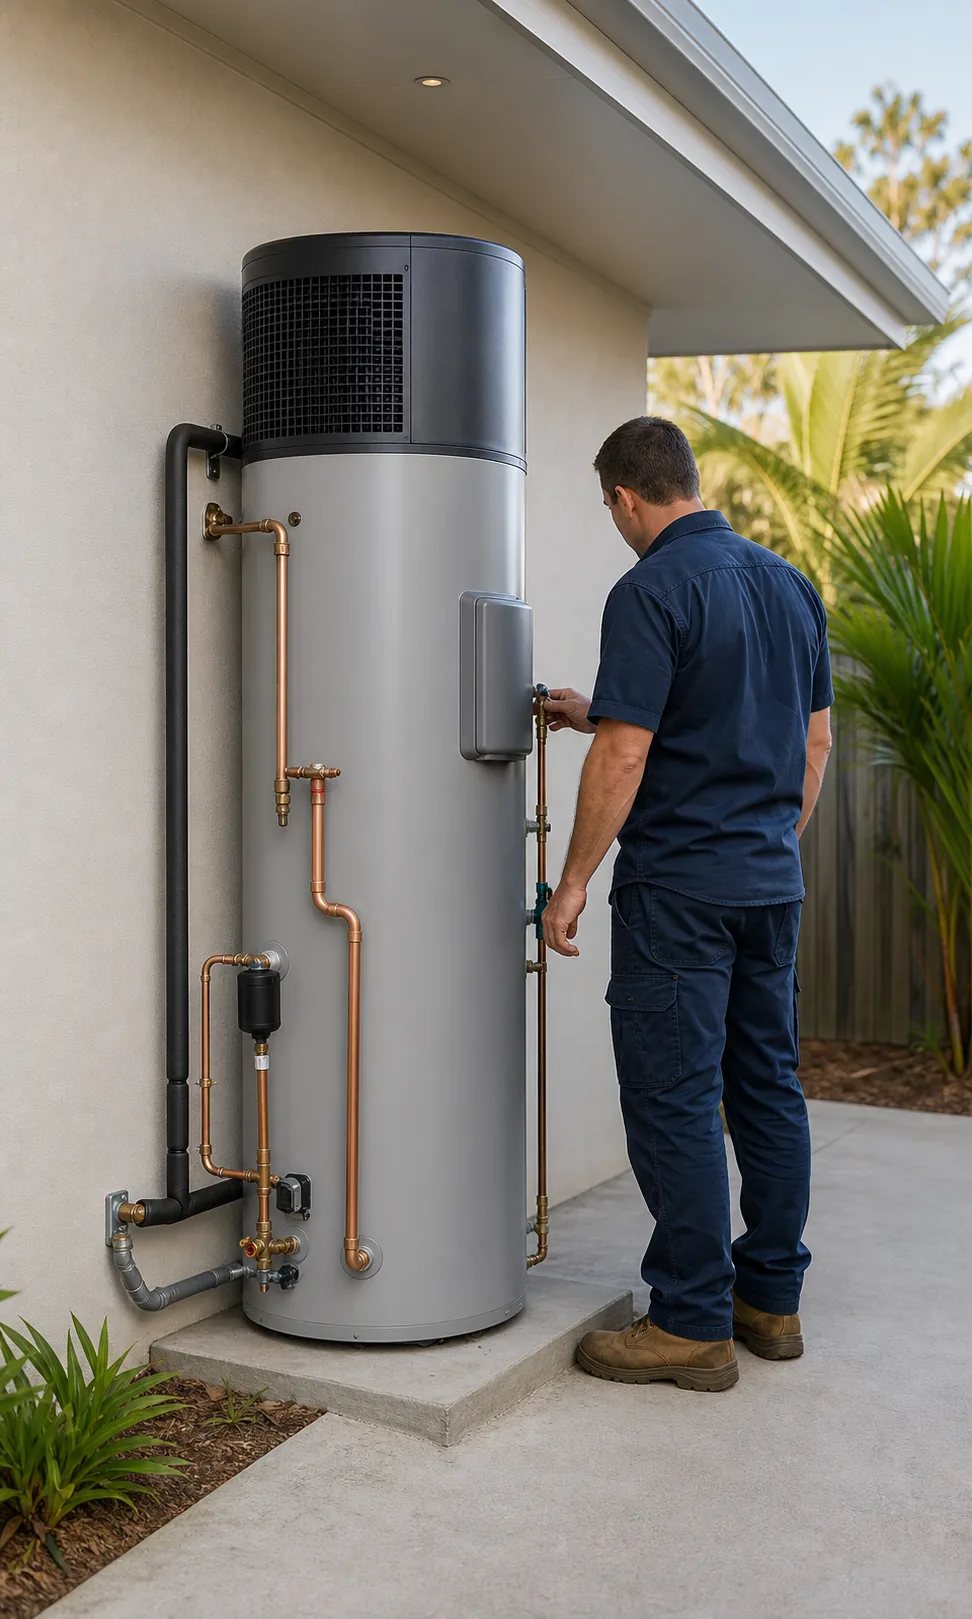
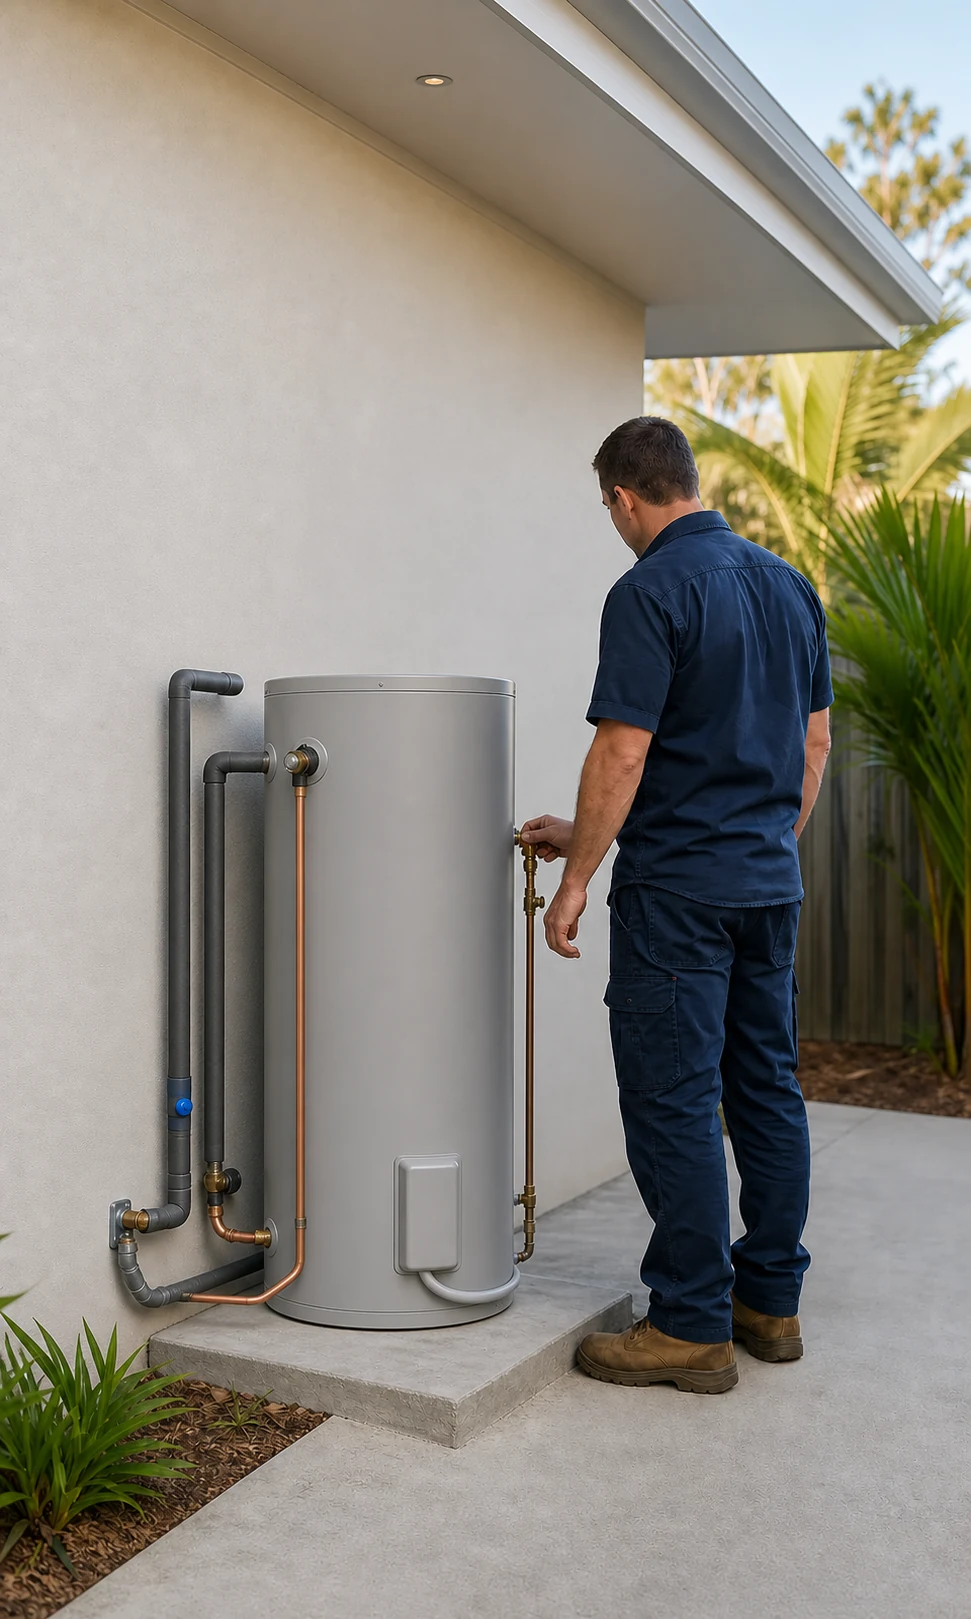
Improve plumbing demo visual flow

diff --git a/plumbing-demo.html b/plumbing-demo.html
@@ -1067,6 +1067,61 @@
         </div>
       </section>
 
+      <section class="diagnosis" aria-labelledby="diagnosis-title">
+        <div class="section-inner">
+          <div class="diagnosis__heading" data-reveal>
+            <div><p class="eyebrow">The fix line</p><h2 class="display" id="diagnosis-title">Follow the line, not just the symptom.</h2></div>
+            <p>A drain is only half fixed when the water starts moving. The better outcome is knowing what caused the blockage and what happens next.</p>
+          </div>
+          <div class="diagnosis__layout">
+            <figure class="diagnosis__figure" data-reveal data-delay="1">
+              <img src="img/headland-plumbing/drain-diagnosis.webp" width="1536" height="1024" alt="Illustrative concept image of a plumber using a drain inspection camera at an outdoor access point." loading="lazy" decoding="async">
+              <span class="diagnosis__note diagnosis__note--one">01 · Inspect</span>
+              <span class="diagnosis__note diagnosis__note--two">02 · Locate</span>
+              <span class="diagnosis__note diagnosis__note--three">03 · Confirm</span>
+              <figcaption class="image-disclosure">Concept image · fictional demo</figcaption>
+            </figure>
+            <ol class="diagnosis__steps" aria-label="Drain diagnosis approach" data-reveal data-delay="2">
+              <li><span>01</span><div><h3>See what is happening</h3><p>Start with the symptoms and inspect the accessible line.</p></div></li>
+              <li><span>02</span><div><h3>Find the cause</h3><p>Use the right diagnostic method instead of guessing.</p></div></li>
+              <li><span>03</span><div><h3>Confirm the result</h3><p>Test the flow and explain any next step before packing up.</p></div></li>
+            </ol>
+          </div>
+        </div>
+      </section>
+
+      <section class="planned" aria-labelledby="planned-title">
+        <svg class="plumbing-motif planned__fixture-motif" viewBox="0 0 420 260" aria-hidden="true" focusable="false">
+          <path d="M76 232h126m-82 0v-76c0-64 49-114 113-114s113 50 113 114v18h56v38H300"/>
+          <path d="M233 42V12m-45 0h90"/>
+          <path class="motif-fine" d="M109 215h22m-22 10h22M332 157h28m-28 12h28"/>
+          <path class="motif-accent" d="M326 252c0-11 13-22 13-34 0 12 13 23 13 34a13 13 0 1 1-26 0Zm45-17c0-8 9-16 9-25 0 9 9 17 9 25a9 9 0 1 1-18 0Z"/>
+        </svg>
+        <div class="section-inner">
+          <div class="planned__heading" data-reveal>
+            <p class="eyebrow">Planned plumbing</p>
+            <h2 class="display" id="planned-title">A repair today. A better setup tomorrow.</h2>
+            <p>Some jobs need a quick answer. Others deserve a considered plan, clean coordination and a finish that belongs in the room.</p>
+          </div>
+          <div class="planned__grid">
+            <figure class="planned-card planned-card--wide" data-reveal data-delay="1">
+              <div class="planned-card__image">
+                <img src="img/headland-plumbing/bathroom-fitoff.webp" width="1448" height="1086" alt="Illustrative concept image of a finished Australian bathroom with new vanity, shower and toilet plumbing fixtures." loading="lazy" decoding="async">
+                <span class="image-disclosure">Concept image · fictional demo</span>
+              </div>
+              <figcaption><strong>Bathroom fit-offs</strong><span>Rough-in · fixtures · testing</span><p>Keep the plumbing practical, coordinated and ready for the finish around it.</p></figcaption>
+            </figure>
+            <figure class="planned-card planned-card--portrait" data-reveal data-delay="2">
+              <div class="planned-card__image">
+                <img src="img/headland-plumbing/hot-water-install.webp" width="971" height="1619" alt="Illustrative concept image of a plumber checking an unbranded outdoor electric storage hot water system at a Queensland home." loading="lazy" decoding="async">
+                <span class="image-disclosure">Concept image · fictional demo</span>
+              </div>
+              <figcaption><strong>Hot water</strong><span>Repair · replace · improve</span><p>Assess the existing system, explain the options and install the agreed solution neatly.</p></figcaption>
+            </figure>
+          </div>
+        </div>
+      </section>
+
       <section class="triage" id="problems" aria-labelledby="problems-title">
         <div class="section-inner">
           <div class="triage__heading" data-reveal>
@@ -1123,61 +1178,6 @@
             <li data-reveal data-delay="1"><a href="#job-brief" data-job="Kitchen, bathroom or laundry"><span class="service-list__number">06</span><h3>Kitchens, bathrooms &amp; laundries</h3><p>Rough-in, fit-off and practical plumbing for renovation work.</p><span class="service-list__arrow" aria-hidden="true">↗</span></a></li>
             <li data-reveal data-delay="2"><a href="#job-brief" data-job="Property maintenance"><span class="service-list__number">07</span><h3>Property maintenance</h3><p>Planned repairs and recurring plumbing support for homes and properties.</p><span class="service-list__arrow" aria-hidden="true">↗</span></a></li>
           </ol>
-        </div>
-      </section>
-
-      <section class="diagnosis" aria-labelledby="diagnosis-title">
-        <div class="section-inner">
-          <div class="diagnosis__heading" data-reveal>
-            <div><p class="eyebrow">The fix line</p><h2 class="display" id="diagnosis-title">Follow the line, not just the symptom.</h2></div>
-            <p>A drain is only half fixed when the water starts moving. The better outcome is knowing what caused the blockage and what happens next.</p>
-          </div>
-          <div class="diagnosis__layout">
-            <figure class="diagnosis__figure" data-reveal data-delay="1">
-              <img src="img/headland-plumbing/drain-diagnosis.webp" width="1536" height="1024" alt="Illustrative concept image of a plumber using a drain inspection camera at an outdoor access point." loading="lazy" decoding="async">
-              <span class="diagnosis__note diagnosis__note--one">01 · Inspect</span>
-              <span class="diagnosis__note diagnosis__note--two">02 · Locate</span>
-              <span class="diagnosis__note diagnosis__note--three">03 · Confirm</span>
-              <figcaption class="image-disclosure">Concept image · fictional demo</figcaption>
-            </figure>
-            <ol class="diagnosis__steps" aria-label="Drain diagnosis approach" data-reveal data-delay="2">
-              <li><span>01</span><div><h3>See what is happening</h3><p>Start with the symptoms and inspect the accessible line.</p></div></li>
-              <li><span>02</span><div><h3>Find the cause</h3><p>Use the right diagnostic method instead of guessing.</p></div></li>
-              <li><span>03</span><div><h3>Confirm the result</h3><p>Test the flow and explain any next step before packing up.</p></div></li>
-            </ol>
-          </div>
-        </div>
-      </section>
-
-      <section class="planned" aria-labelledby="planned-title">
-        <svg class="plumbing-motif planned__fixture-motif" viewBox="0 0 420 260" aria-hidden="true" focusable="false">
-          <path d="M76 232h126m-82 0v-76c0-64 49-114 113-114s113 50 113 114v18h56v38H300"/>
-          <path d="M233 42V12m-45 0h90"/>
-          <path class="motif-fine" d="M109 215h22m-22 10h22M332 157h28m-28 12h28"/>
-          <path class="motif-accent" d="M326 252c0-11 13-22 13-34 0 12 13 23 13 34a13 13 0 1 1-26 0Zm45-17c0-8 9-16 9-25 0 9 9 17 9 25a9 9 0 1 1-18 0Z"/>
-        </svg>
-        <div class="section-inner">
-          <div class="planned__heading" data-reveal>
-            <p class="eyebrow">Planned plumbing</p>
-            <h2 class="display" id="planned-title">A repair today. A better setup tomorrow.</h2>
-            <p>Some jobs need a quick answer. Others deserve a considered plan, clean coordination and a finish that belongs in the room.</p>
-          </div>
-          <div class="planned__grid">
-            <figure class="planned-card planned-card--wide" data-reveal data-delay="1">
-              <div class="planned-card__image">
-                <img src="img/headland-plumbing/bathroom-fitoff.webp" width="1448" height="1086" alt="Illustrative concept image of a finished Australian bathroom with new vanity, shower and toilet plumbing fixtures." loading="lazy" decoding="async">
-                <span class="image-disclosure">Concept image · fictional demo</span>
-              </div>
-              <figcaption><strong>Bathroom fit-offs</strong><span>Rough-in · fixtures · testing</span><p>Keep the plumbing practical, coordinated and ready for the finish around it.</p></figcaption>
-            </figure>
-            <figure class="planned-card planned-card--portrait" data-reveal data-delay="2">
-              <div class="planned-card__image">
-                <img src="img/headland-plumbing/hot-water-install.webp" width="972" height="1619" alt="Illustrative concept image of a plumber checking an unbranded outdoor hot water system at a Queensland home." loading="lazy" decoding="async">
-                <span class="image-disclosure">Concept image · fictional demo</span>
-              </div>
-              <figcaption><strong>Hot water</strong><span>Repair · replace · improve</span><p>Assess the existing system, explain the options and install the agreed solution neatly.</p></figcaption>
-            </figure>
-          </div>
         </div>
       </section>
 